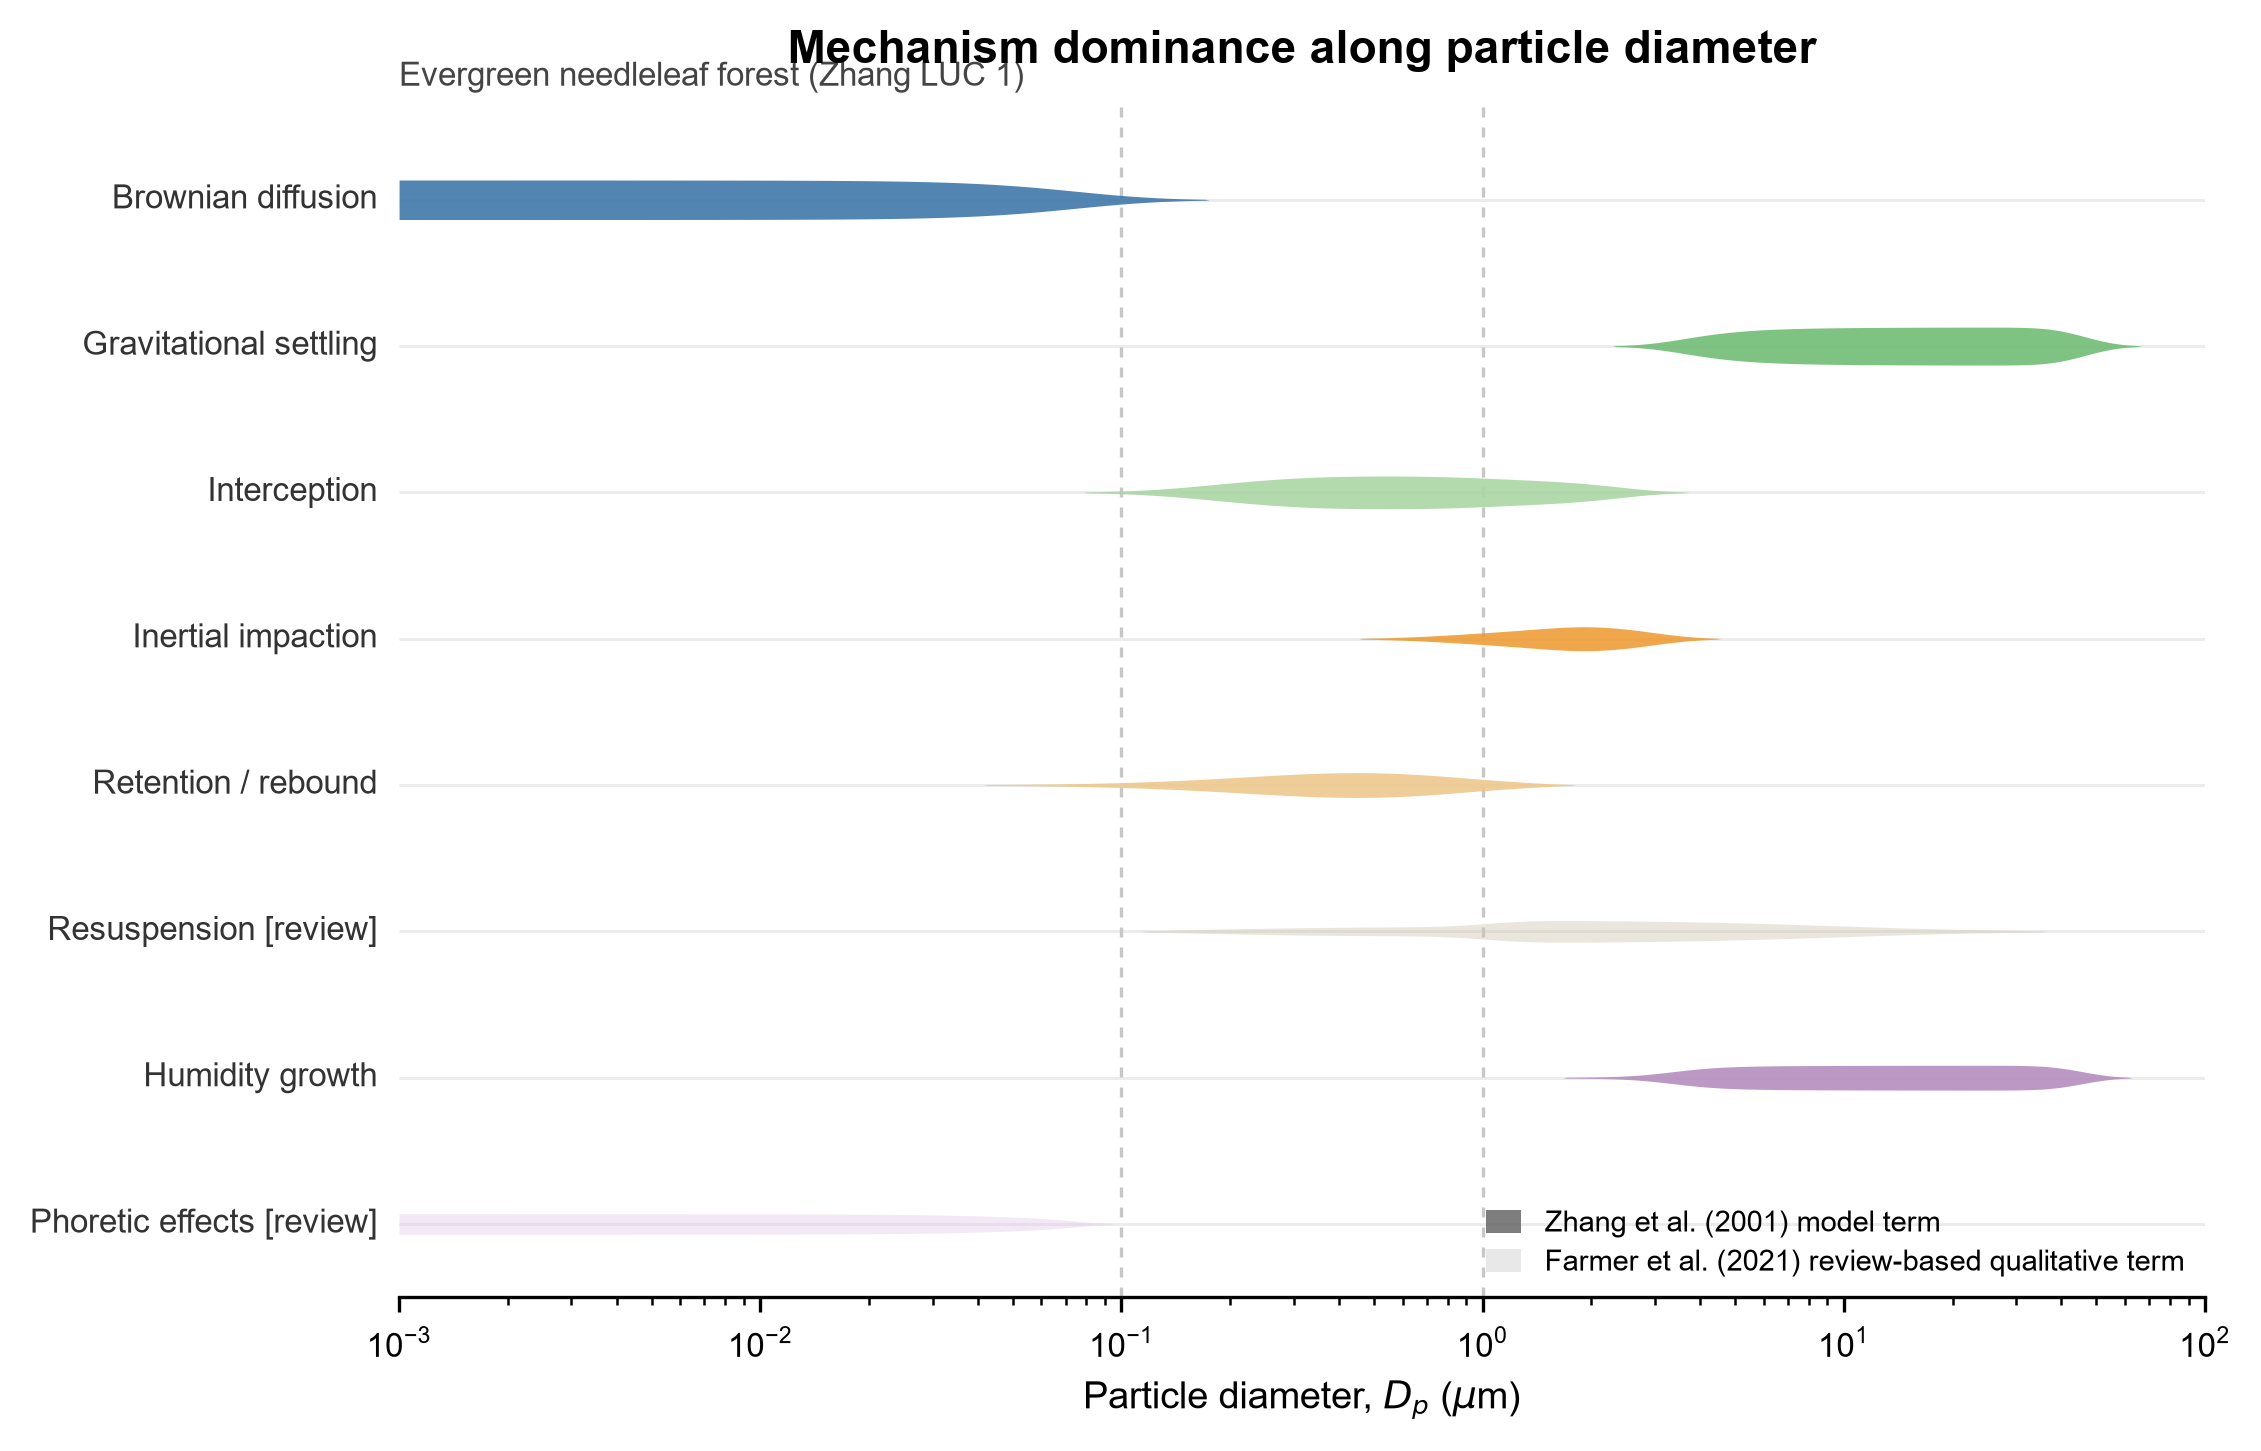
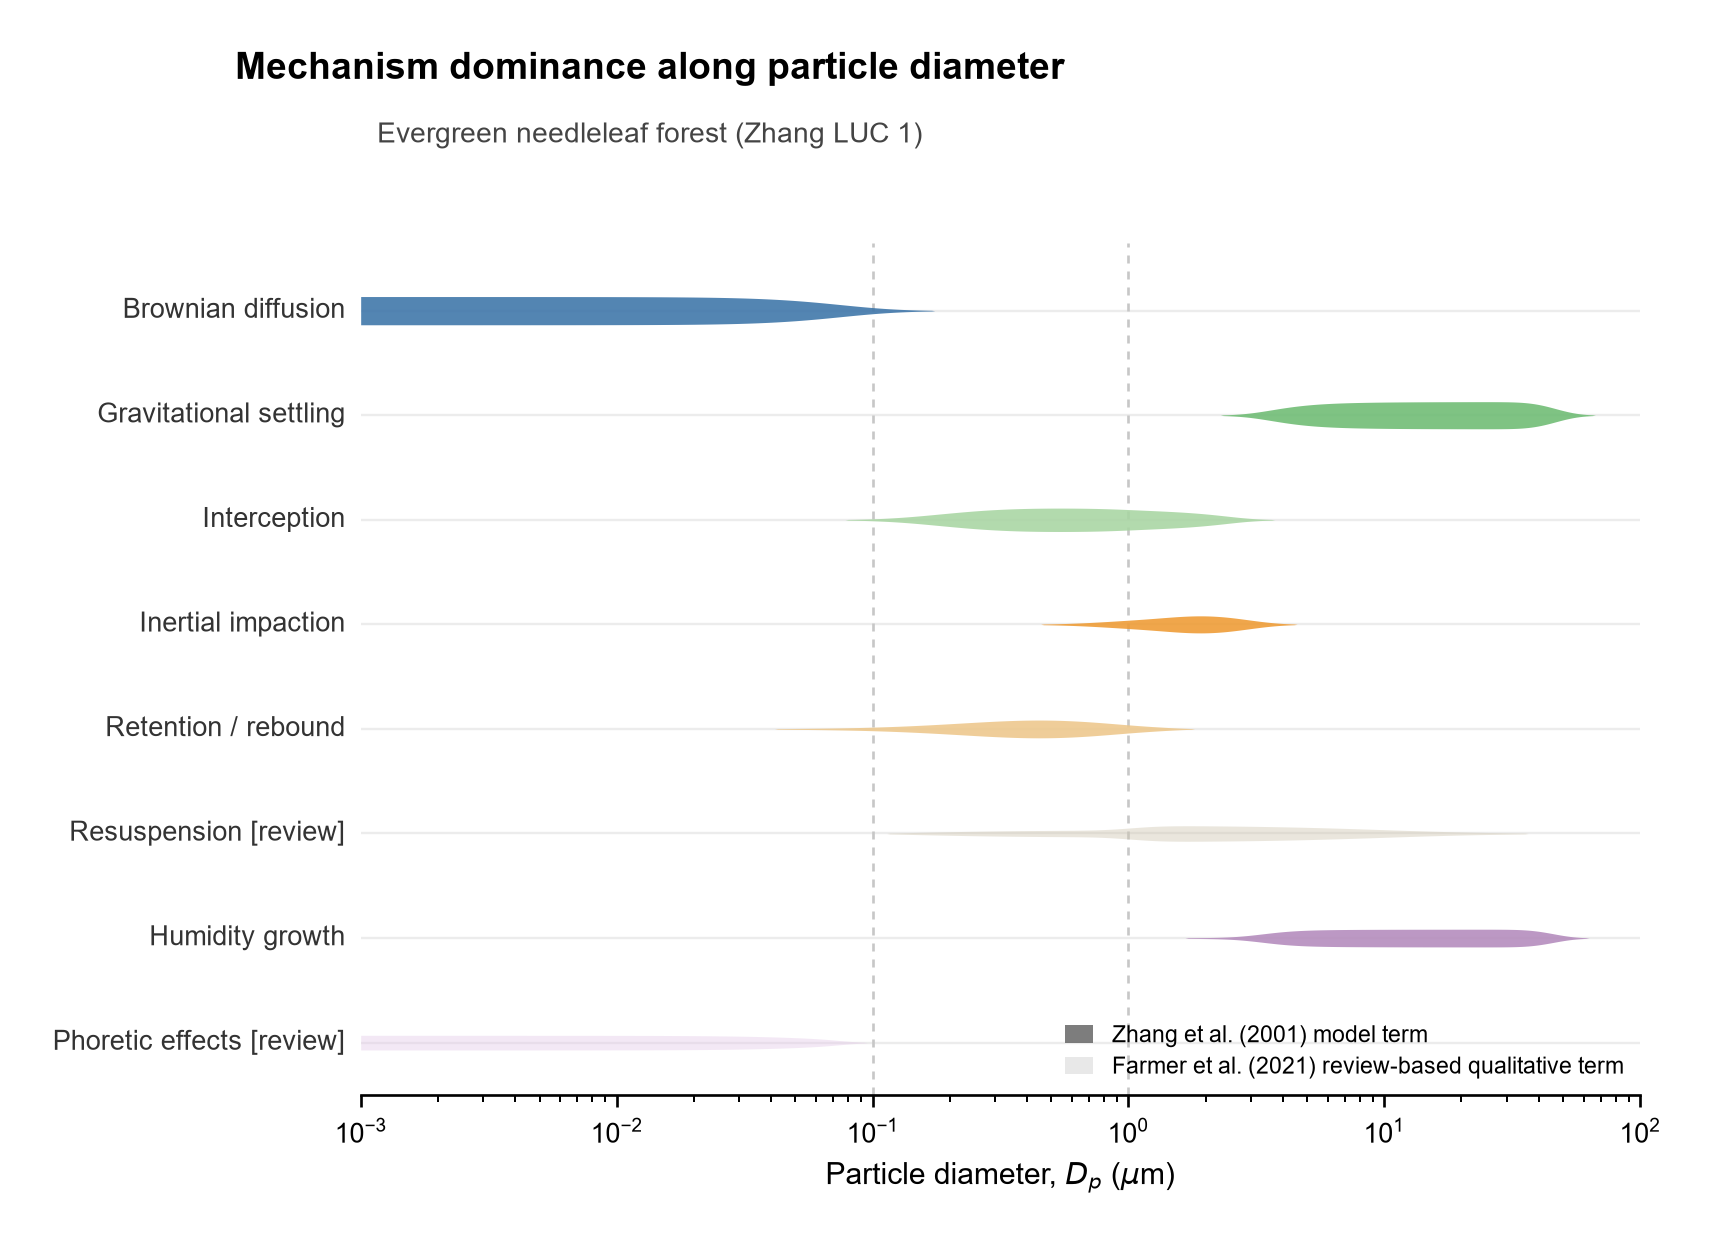
Add files via upload

diff --git a/style.css b/style.css
@@ -220,6 +220,7 @@ html {
   background: rgba(255, 255, 255, 0.94);
   border: 1px solid rgba(215, 226, 220, 0.95);
   box-shadow: 0 16px 38px rgba(22, 50, 50, 0.07);
+  overflow: visible;
 }
 
 .sci-figure img {
@@ -240,12 +241,15 @@ html {
   line-height: 1.45;
 }
 
-.sci-figure-mechanism img {
-  max-height: min(52vh, 30rem);
-}
-
-.sci-figure:not(.sci-figure-mechanism) img {
-  max-height: min(44vh, 24rem);
+.workflow-summary {
+  margin: 1rem 0 0;
+  padding: 0.85rem 1rem;
+  text-align: center;
+  color: var(--text);
+  font-size: 0.92rem;
+  border-radius: 16px;
+  background: rgba(251, 253, 251, 0.92);
+  border: 1px solid rgba(215, 226, 220, 0.9);
 }
 
 .contact-strip {
@@ -1571,9 +1575,8 @@ main,
     grid-template-columns: repeat(3, minmax(0, 1fr));
   }
 
-  .sci-figure-mechanism img,
-  .sci-figure:not(.sci-figure-mechanism) img {
-    max-height: none;
+  .sci-figure img {
+    max-width: 100%;
   }
 
   .screen-canvas {

diff --git a/index.html b/index.html
@@ -487,10 +487,7 @@
           </div>
         </div>
 
-        <blockquote class="highlight-quote">
-          <p>将分散的观测、机制与模型信息整理为可比较的证据表和图表。</p>
-          <footer>Structured evidence tables and figures from dry-deposition studies.</footer>
-        </blockquote>
+        <p class="workflow-summary">当前工作：干沉降文献综述、观测证据表整理、元数据核查与机制图绘制。</p>
       </div>
     </section>
 

diff --git a/scripts/export_mechanism_figure.py b/scripts/export_mechanism_figure.py
@@ -1,0 +1,54 @@
+"""Export mechanism-dominance figure for portfolio (fixed margins and titles)."""
+
+from __future__ import annotations
+
+import importlib.util
+from pathlib import Path
+
+import matplotlib.pyplot as plt
+
+ROOT = Path(__file__).resolve().parents[1]
+OUT_PATH = ROOT / "assets" / "images" / "mechanism-dominance.png"
+REDRAW_PATH = Path(r"D:\My_article\figures\figure1\figure1_panel_b_mechanism_dominance\redraw_figure1_panel_b.py")
+
+
+def load_redraw_module():
+    spec = importlib.util.spec_from_file_location("redraw_panel_b", REDRAW_PATH)
+    if spec is None or spec.loader is None:
+        raise RuntimeError(f"Cannot load module: {REDRAW_PATH}")
+    module = importlib.util.module_from_spec(spec)
+    spec.loader.exec_module(module)
+    return module
+
+
+def export_figure() -> None:
+    redraw = load_redraw_module()
+    df = __import__("pandas").read_csv(redraw.DATA_PATH)
+    profiles, source_types = redraw.build_profiles(df)
+    strengths = redraw.build_band_strengths(profiles)
+    fig = redraw.draw_panel_b(strengths, source_types)
+
+    ax = fig.axes[0]
+    ax.set_title("")
+    ax.texts.clear() if hasattr(ax.texts, "clear") else None
+    for txt in list(ax.texts):
+        if redraw.SUBTITLE in txt.get_text():
+            txt.remove()
+
+    fig.suptitle(
+        "Mechanism dominance along particle diameter",
+        fontsize=11,
+        fontweight="bold",
+        y=0.95,
+    )
+    fig.text(0.5, 0.895, redraw.SUBTITLE, ha="center", va="top", fontsize=8.5, color="#444444")
+    fig.subplots_adjust(left=0.36, right=0.98, top=0.80, bottom=0.13)
+
+    OUT_PATH.parent.mkdir(parents=True, exist_ok=True)
+    fig.savefig(OUT_PATH, dpi=240, bbox_inches="tight", pad_inches=0.22, facecolor="white")
+    plt.close(fig)
+    print(f"Saved: {OUT_PATH}")
+
+
+if __name__ == "__main__":
+    export_figure()